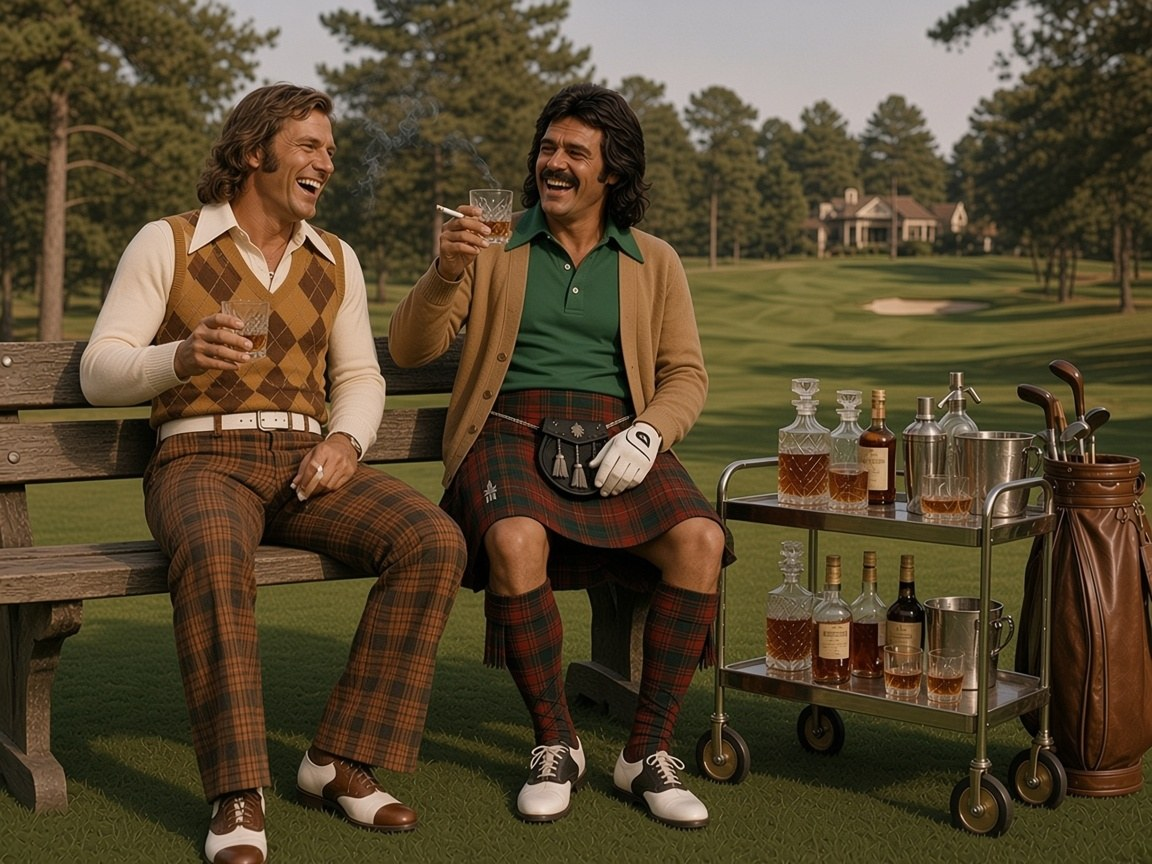
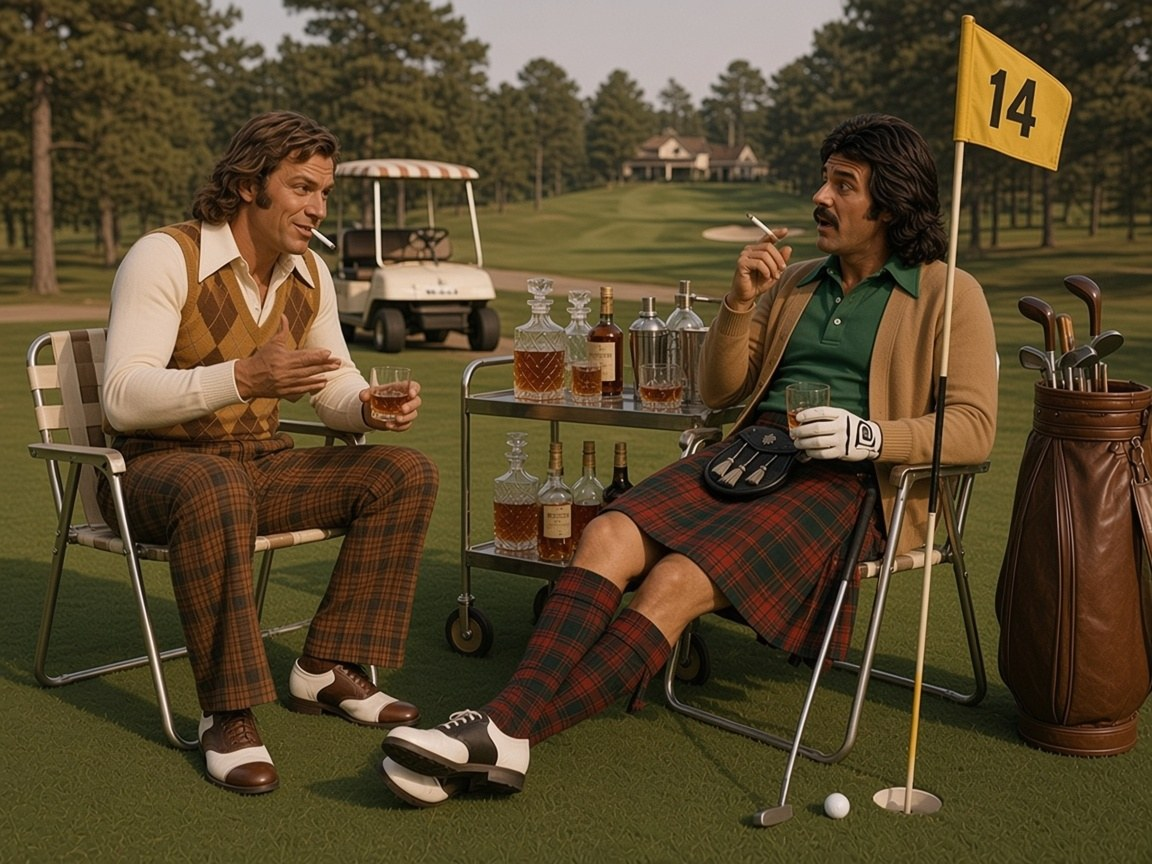
Preview: replace the Team Building mid-round photo with the 14th green.

diff --git a/preview-wy4u7thzbj5o/team-building/index.html b/preview-wy4u7thzbj5o/team-building/index.html
@@ -52,15 +52,15 @@
       <source srcset="img/fairway.webp?v=1" type="image/webp">
       <img src="img/fairway.jpg?v=1" width="1152" height="864" alt="Gaute and Gardon Mc.Hardon on a 1970s fairway in loud golf clothes, Gardon in a tartan kilt, both smoking beside a rolling chrome drinks trolley and a leather golf bag">
     </picture>
-    <figcaption>The fourteenth fairway. The Creative Director and Mr. Mc.Hardon beside the mobile ideation unit. A policy was agreed. It was not written down.</figcaption>
+    <figcaption>The fourteenth fairway. The Creative Director and Mr. Mc.Hardon beside the mobile ideation unit. The clubs have not yet been required.</figcaption>
   </figure>
 
   <figure class="story-pic">
     <picture>
-      <source srcset="img/bench.webp?v=1" type="image/webp">
-      <img src="img/bench.jpg?v=1" width="1152" height="864" alt="Gaute and Gardon Mc.Hardon laughing on a wooden bench at the edge of the fairway, whisky in hand, the chrome trolley still at their side">
+      <source srcset="img/bench.webp?v=2" type="image/webp">
+      <img src="img/bench.jpg?v=2" width="1152" height="864" alt="Gaute and Gardon Mc.Hardon sitting opposite each other in folding lawn chairs by the fourteenth green flag, a chrome minibar between them and a golf cart behind; Gaute is telling a story, Gardon in mock disbelief">
     </picture>
-    <figcaption>A mid-round briefing. Consensus is reached in a rocks glass. The minutes, if any, remain on the trolley.</figcaption>
+    <figcaption>The fourteenth green. A mid-round briefing. Mr. Mc.Hardon receives the creative brief with the scepticism it deserves.</figcaption>
   </figure>
 
   <figure class="story-pic">
